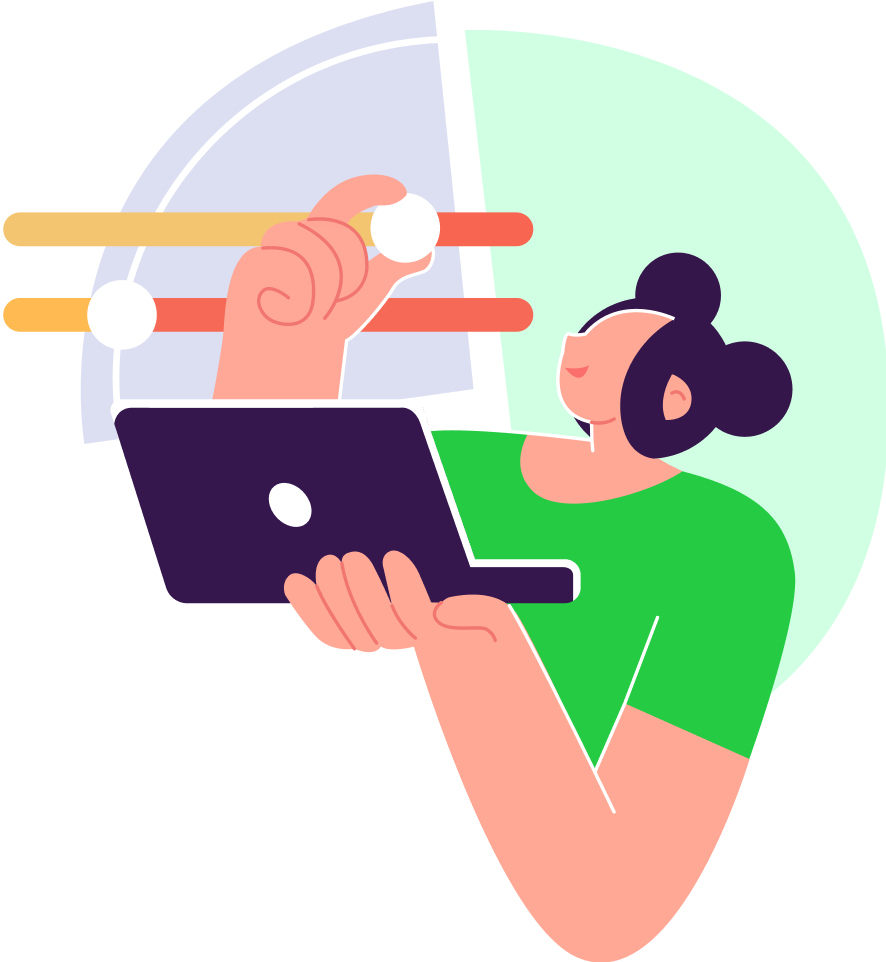
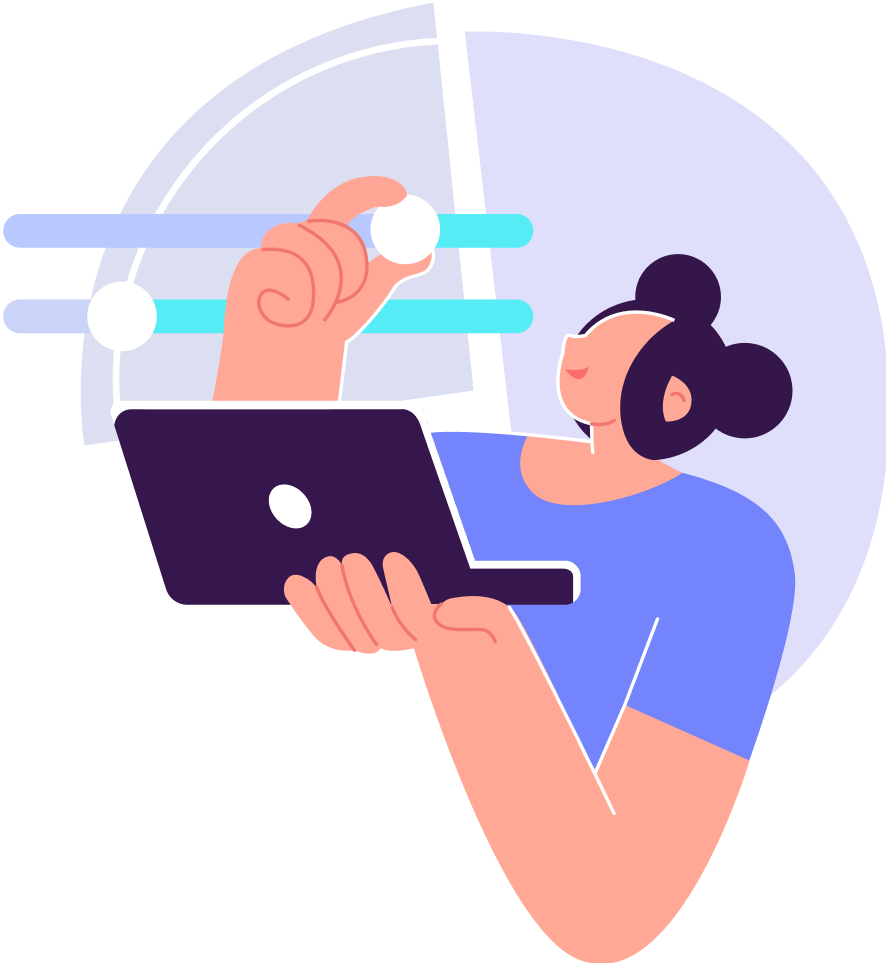
[Update] leads dashboard screen UI

diff --git a/src/components/LeadsDashboard/index.js b/src/components/LeadsDashboard/index.js
@@ -1,15 +1,13 @@
 import React, { useState, useEffect } from 'react'
 import { ScrollView, Image, View } from 'react-native'
-import { HText, HSliderButton, HButton } from '../Shared'
+import { HText, HButton, HPressableText } from '../Shared'
 import { colors, images, icons } from '../../utils/styleGuide'
-import { HStack, VStack, Box, Actionsheet, useDisclose } from 'native-base'
+import { HStack, VStack, Box } from 'native-base'
 import SplashScreen from 'react-native-splash-screen'
+import Swiper from 'react-native-swiper'
 import styles from './style'
 
 export const LeadsDashboard = (props) => {
-  const { isOpen, onOpen, onClose } = useDisclose()
-  const [isInbound, setIsInBound] = useState(true)
-
   const isNoData = true
 
   useEffect(() => {
@@ -23,111 +21,100 @@ export const LeadsDashboard = (props) => {
         showsVerticalScrollIndicator={false}
         contentContainerStyle={styles.container}
       >
-        <HStack justifyContent='center'>
-          <HSliderButton
-            firstText='Inbound'
-            secondText='Claimed'
-            onFirstPress={() => setIsInBound(true)}
-            onSecondPress={() => setIsInBound(false)}
-          />
-        </HStack>
         {!isNoData ? (
-          <View style={styles.bottomContainer}>
-            <View style={styles.shadowContainer}>
-              <View style={styles.cardContainer}>
-                <View style={styles.cardHeader}>
-                  <HStack justifyContent='space-between'>
-                    <HStack alignItems='center'>
-                      <Image source={icons.location} style={styles.icon}
-                      />
-                      <HText style={styles.locationText}>72839</HText>
-                    </HStack>
-                    <HButton
-                      shadow={null}
-                      text='Buyer'
-                      borderColor={colors.lightPrimary}
-                      backgroundColor={colors.lightPrimary}
-                      textStyle={{
-                        color: colors.primary,
-                        fontSize: 12
-                      }}
-                      width={67}
-                      height={8}
+          <View style={styles.leadsContent}>
+            <HStack justifyContent='space-around' mb='8'>
+              <HPressableText
+                text='Buyers'
+                textColor={colors.gray}
+                fontSize={21}
+                fontWeight='400'
+                onPress={() => {}}
+              />
+              <HPressableText
+                text='Seller'
+                textColor={colors.gray}
+                fontSize={21}
+                fontWeight='400'
+                onPress={() => {}}
+              />
+              <HPressableText
+                text='Prospective'
+                textColor={colors.gray}
+                fontSize={21}
+                fontWeight='400'
+                onPress={() => {}}
+              />
+            </HStack>
+            <Swiper
+              showsButtons={false}
+              loop={true}
+              renderPagination={renderPagination}
+              height={410}
+            >
+              {[...Array(32).keys()].map(i => (
+                <View key={i} style={styles.cardContainer}>
+                  <HStack alignItems='center' borderBottomColor={colors.borderColor} borderBottomWidth='1' pb='5'>
+                    <Image source={icons.location} style={styles.locationIcon}
                     />
+                    <HText style={styles.locationText}>72839</HText>
                   </HStack>
+                  <Box mt='10' mb='10' alignItems='center'>
+                    <HText style={styles.nameText}>Jonathan Shah</HText>
+                  </Box>
+                  <HStack alignItems='center'>
+                    <Image source={icons.email} style={styles.infoIcon} />
+                    <HText style={styles.infoText}>jonathan@mail.com</HText>
+                  </HStack>
+                  <HStack mt='4' alignItems='center'>
+                    <Image source={icons.phone} style={styles.infoIcon} />
+                    <HText style={styles.infoText}>+1 238 2838 282</HText>
+                  </HStack>
+                  <Box alignItems='center' mt='16'>
+                    <HButton
+                      text='Contact'
+                      borderColor={colors.white}
+                      backgroundColor={colors.white}
+                      textStyle={{
+                        color: colors.purple,
+                        fontSize: 24,
+                        fontWeight: '700'
+                      }}
+                      height='50'
+                      onPress={() => {}}
+                    />
+                  </Box>
                 </View>
-                <HStack mt='4'>
-                  <Image source={icons.user} style={styles.infoIcon} />
-                  <HText style={styles.infoText}>Jonathan Shah</HText>
-                </HStack>
-                <HStack mt='4'>
-                  <Image source={icons.email} style={styles.infoIcon} />
-                  <HText style={styles.infoText}>jonathan@mail.com</HText>
-                </HStack>
-                <HStack mt='4'>
-                  <Image source={icons.phone} style={styles.infoIcon} />
-                  <HText style={styles.infoText}>+1 238 2838 282</HText>
-                </HStack>
-                <Box alignItems='center' mt='8'>
-                  <HButton
-                    text='Claim'
-                    onPress={() => onOpen()}
-                  />
-                </Box>
-              </View>
-            </View>
+              ))}
+            </Swiper>
           </View>
         ) : (
           <View style={styles.bottomContainer}>
-            <View style={[styles.imageWrapper, { aspectRatio: 255 / 265 }]}>
+            <View style={[styles.imageWrapper, { aspectRatio: 221 / 240 }]}>
               <Image
                 source={images.leadsBg}
                 style={styles.image}
               />
             </View>
-            <HText style={styles.title}>
-              {isInbound ? 'No Leads' : 'No Claimed Leads'}
-            </HText>
-            <HText style={styles.description}>
-              {isInbound ? 'Buy leads to see what your consumers are looking for.' : 'Claim any leads from the dashboard to see claimed leads over here.'}
-            </HText>
+            <HText style={styles.subtitle}>No Leads</HText>
+            <HText style={styles.description}>Buy leads to see what your consumers are looking for.</HText>
             <HButton
               text='Buy Leads'
+              borderColor={colors.purple}
+              backgroundColor={colors.purple}
               onPress={() => {}}
             />
           </View>
         )}
-
-        <Actionsheet isOpen={isOpen} onClose={onClose}>
-          <Actionsheet.Content
-            backgroundColor={colors.white}
-          >
-            <View style={styles.sheetContent}>
-              <HText style={styles.title}>Contact Lead</HText>
-              <HText style={styles.contactDescription}>
-                Do you want to use one of your messages to contact the leads?
-              </HText>
-              <VStack alignItems='center' mt='7'>
-                <HButton
-                  text='Yes'
-                  onPress={() => {}}
-                />
-                <HButton
-                  text='No'
-                  marginTop='2'
-                  shadow={null}
-                  borderColor={colors.white}
-                  backgroundColor={colors.white}
-                  textStyle={{
-                    color: colors.text02
-                  }}
-                  onPress={() => {}}
-                />
-              </VStack>
-            </View>
-          </Actionsheet.Content>
-        </Actionsheet>
       </ScrollView>
     </View>
+  )
+}
+
+const renderPagination = (index, total, context) => {
+  return (
+    <Box alignItems='center'>
+      <HText style={styles.paginationText}>{index + 1}/{total}</HText>
+    </Box>
   )
 }

diff --git a/src/components/LeadsDashboard/style.js b/src/components/LeadsDashboard/style.js
@@ -8,16 +8,24 @@ export default StyleSheet.create({
     paddingHorizontal: 18
   },
   title: {
-    fontSize: 22,
-    fontWeight: '600',
+    fontSize: 27,
+    fontWeight: '700',
     lineHeight: 33,
-    marginBottom: 32
+    marginBottom: 32,
+    textAlign: 'center',
+    color: colors.black
   },
   container: {
     flexGrow: 1,
-    justifyContent: 'space-between',
-    flexDirection: 'column',
     paddingBottom: 30
+  },
+  subtitle: {
+    fontSize: 22,
+    color: colors.text01,
+    fontWeight: '700',
+    lineHeight: 22,
+    textAlign: 'center',
+    marginTop: 32
   },
   description: {
     fontSize: 14,
@@ -29,9 +37,9 @@ export default StyleSheet.create({
     textAlign: 'center'
   },
   imageWrapper: {
-    padding: 15,
-    width: deviceWidth * 0.7,
-    marginBottom: 17
+    width: deviceWidth * 0.6,
+    marginBottom: 17,
+    marginTop: 32
   },
   image: {
     resizeMode: 'contain',
@@ -42,26 +50,22 @@ export default StyleSheet.create({
     flex: 1,
     paddingTop: 24,
     alignItems: 'center',
-    // justifyContent: 'flex-end',
     paddingBottom: 40,
     width: '100%',
   },
-  icon: {
+  leadsContent: {
+  },
+  locationIcon: {
     width: 24,
     height: 24,
     resizeMode: 'contain',
-    tintColor: colors.primary
+    tintColor: colors.white
   },
   locationText: {
     fontSize: 18,
     fontWeight: '500',
     paddingLeft: 8,
-    color: colors.text01
-  },
-  cardHeader: {
-    borderBottomColor: colors.borderColor,
-    borderBottomWidth: 1,
-    paddingBottom: 13
+    color: colors.white
   },
   infoIcon: {
     width: 24,
@@ -69,11 +73,22 @@ export default StyleSheet.create({
     resizeMode: 'contain',
     tintColor: colors.borderColor
   },
+  nameText: {
+    fontSize: 25,
+    fontWeight: '700',
+    color: colors.white
+  },
   infoText: {
     fontSize: 16,
     fontWeight: '500',
     paddingLeft: 8,
-    color: colors.text01
+    color: colors.white,
+    lineHeight: 24,
+    paddingBottom: 7,
+    marginLeft: 20,
+    borderBottomColor: colors.white,
+    borderBottomWidth: 1,
+    flex: 1
   },
   sheetContent: {
     paddingHorizontal: 10,
@@ -87,22 +102,14 @@ export default StyleSheet.create({
     marginTop: 4,
     color: colors.text02
   },
-  shadowContainer: {
-    shadowColor: colors.text01,
-    backgroundColor: colors.text01,
-    width: '100%',
-    shadowOffset: {
-      width: 2,
-      height: 2,
-    },
-    shadowOpacity: 0.17,
-    shadowRadius: 8,
-    elevation: 3,
-    borderRadius: 16,
-  },
   cardContainer: {
     padding: 24,
-    backgroundColor: colors.white,
-    borderRadius: 16
+    backgroundColor: colors.purple,
+    borderRadius: 16,
+  },
+  paginationText: {
+    color: colors.gray,
+    fontSize: 21,
+    marginTop: 32
   }
 })

diff --git a/src/utils/styleGuide.js b/src/utils/styleGuide.js
@@ -12,6 +12,8 @@ export const colors = {
   headingColor: "#1F2937",
   black: "#000000",
   white: "#FFFFFF",
+  purple: "#5D5FEF",
+  gray: "#9C9E9D",
 
   tint: "#EFFFF2",
   tint02: "#FBFCFE",
